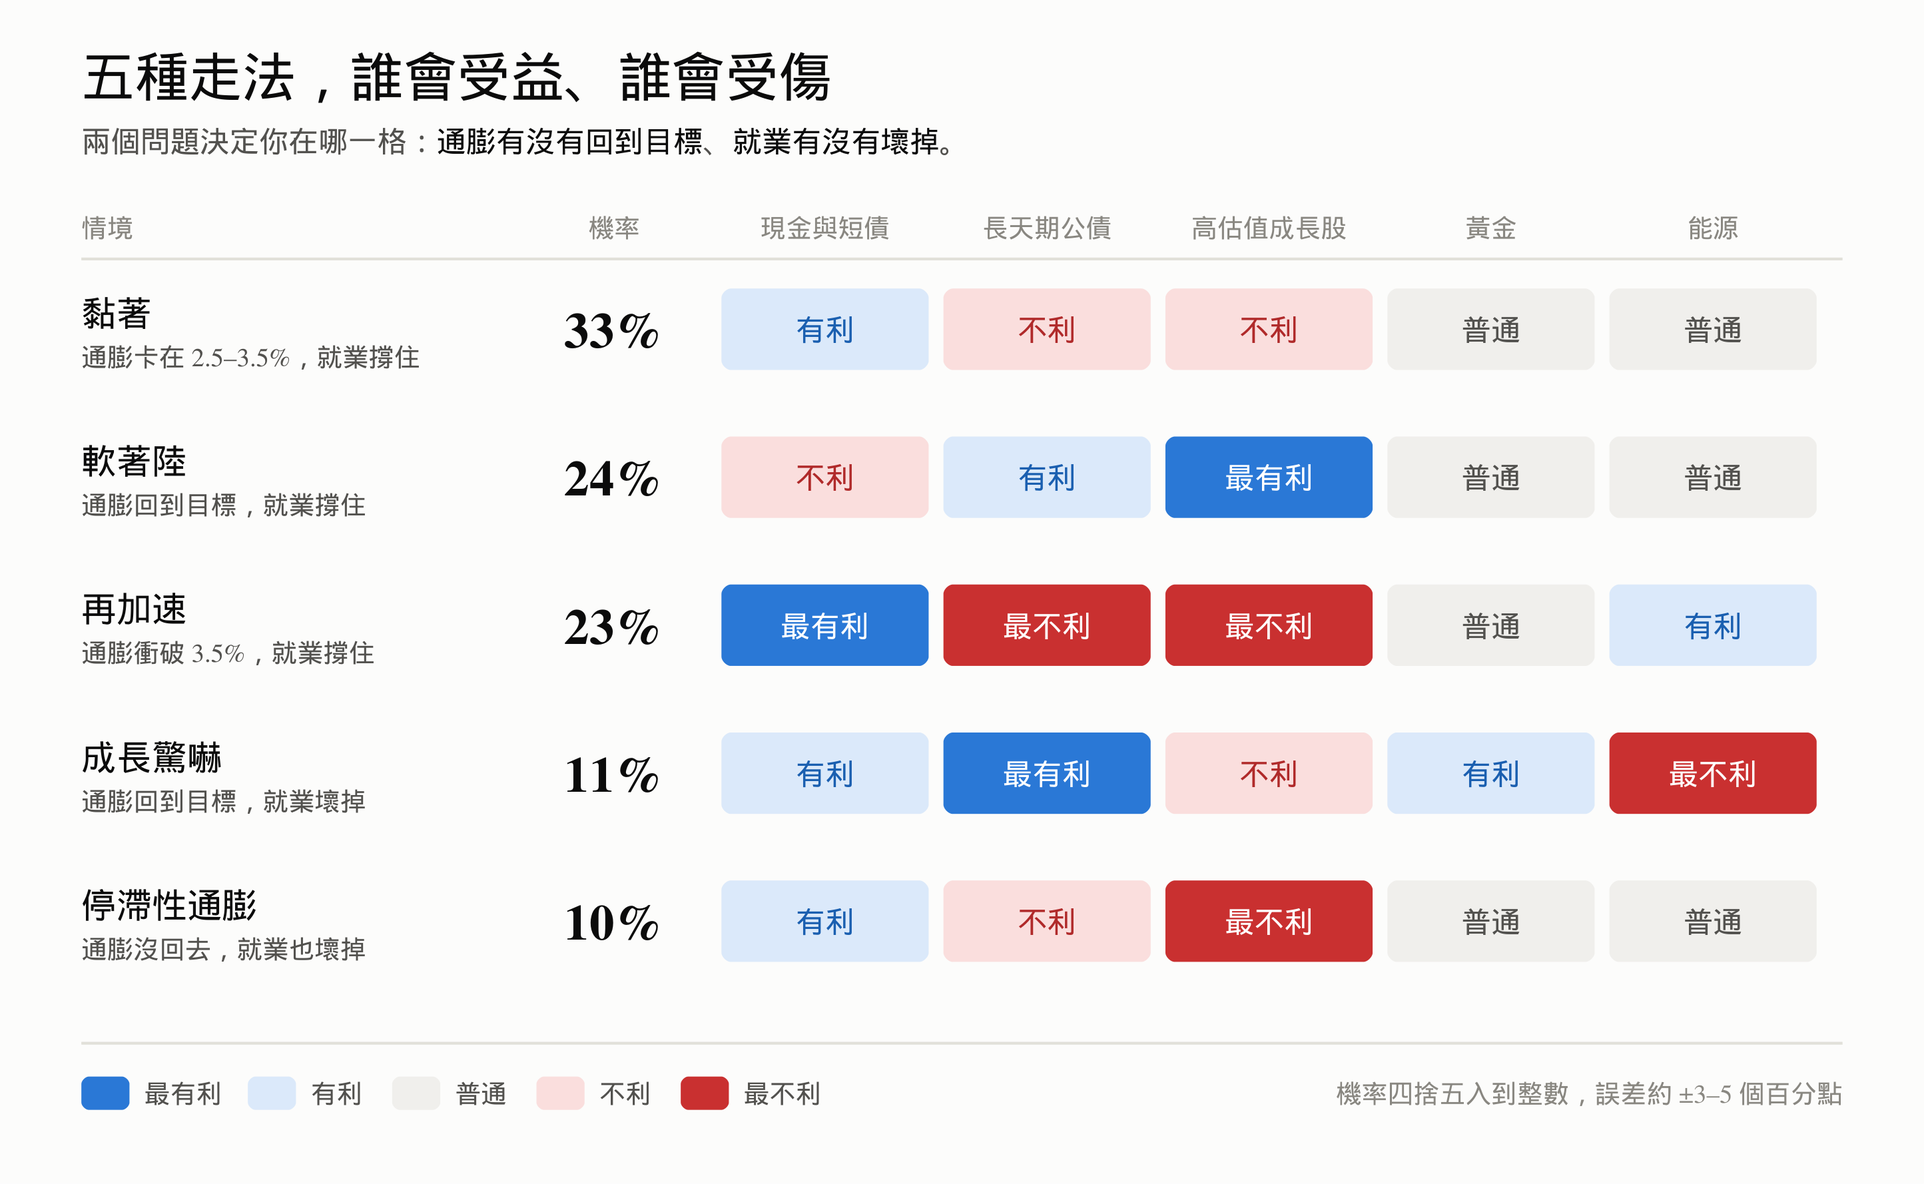
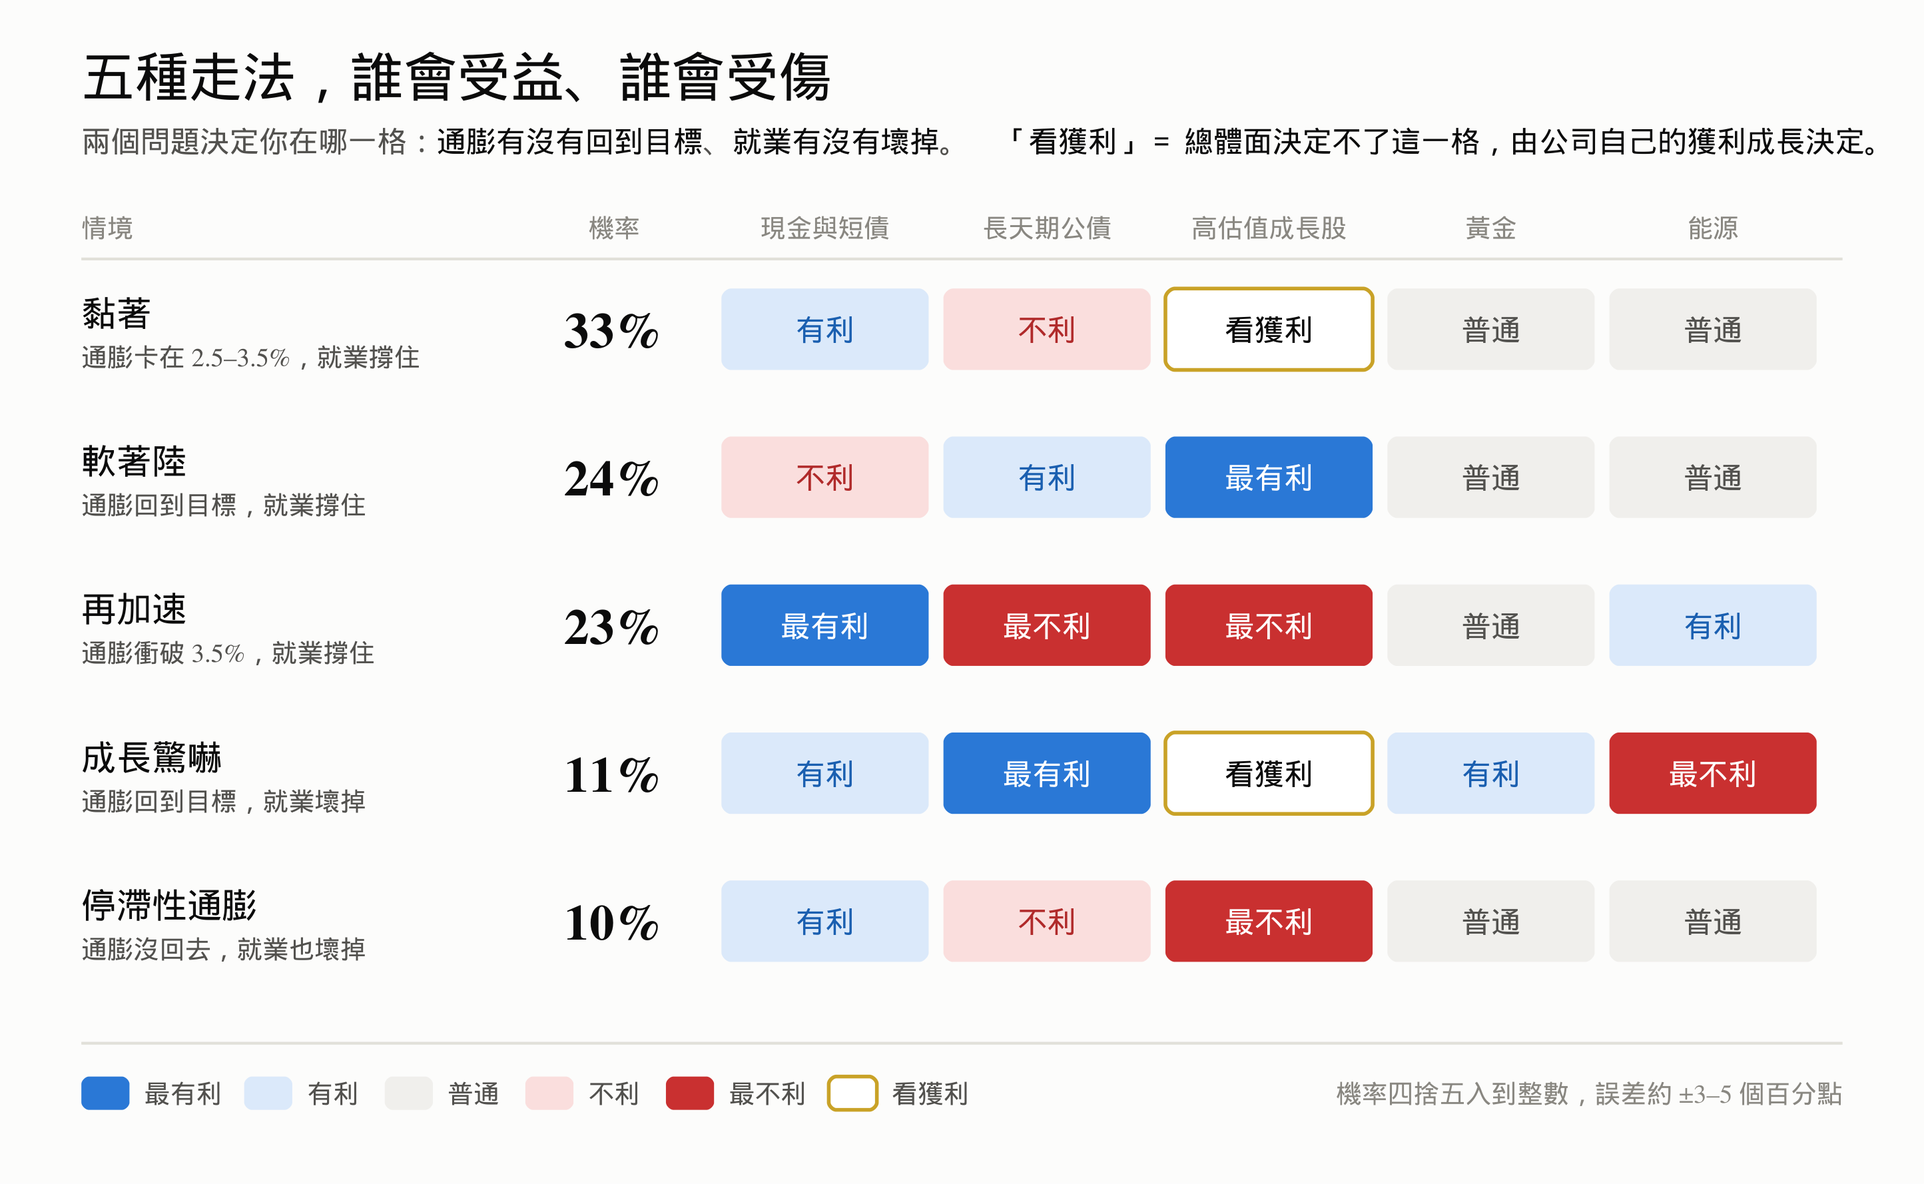
feat(viral): price the cash-flow side of the growth-stock column, not just the discount rate
Jake's objection: the matrix only evaluated the macro shock to the discount
rate. Price = (1+EPS growth) x (1+multiple change) - 1, and the column gave a
direction for the second term while silently assuming the first follows
employment. For AI-capex-driven names it does not, so "sticky" is not
automatically bad and "growth scare" is genuinely ambiguous.

Measured it on Shiller 1881-2022 (multiple_vs_earnings.py, reproducible):

- Whether the multiple compresses depends on WHY rates move, not how much.
  Rates up + inflation up: median -4.5% (n=243). Rates up + inflation DOWN:
  median +3.0% (n=84) - the multiple expands. Rates down + inflation down:
  +7.9% (n=191). The unconditional regression is worthless here (R^2 0.02-0.10,
  and the sign flips positive post-1990), which is exactly why it has to be
  split by inflation direction.
- Magnitudes are far smaller than the duration story implies. Converted to
  breakeven EPS growth (g* = 1/(1+m) - 1), even the harshest cell needs only
  +36% and that is the bad quartile; the median sticky cell needs +2%.

So the growth column gets two "depends on earnings" cells (sticky, growth
scare) instead of a fake direction - encoded as a dashed off-scale cell, since
a third hue failed CVD separation against the red (dE 3.0 deutan). Two new
sections and fig9 carry the breakeven table.

The part that cannot be answered is stated as such: the AI capex cycle is three
[…]

diff --git a/projects/macro-scenarios/multiple_vs_earnings.py b/projects/macro-scenarios/multiple_vs_earnings.py
@@ -1,0 +1,188 @@
+#!/usr/bin/env python3
+"""倍數 vs 獲利：情境矩陣算不出來的那一欄。
+
+問題（Jake 2026-09-15 提出）
+---------------------------
+情境矩陣只評估了**折現率**的衝擊，沒有評估**現金流**。但
+
+    股價變化 = (1 + EPS 成長) × (1 + 倍數變化) − 1
+
+兩項相乘。矩陣只給了第二項的方向，然後默認第一項跟著就業走。
+**對 AI 資本支出驅動的公司，第一項不由失業率決定。**
+⇒ 「高估值成長股」在「黏著」與「成長驚嚇」兩格，總體面根本決定不了方向。
+
+本檔做兩件事：
+1. 用 1881–2022 的席勒資料估「倍數在各種利率／通膨組合下實際動多少」
+2. 換算成**損益兩平的 EPS 成長**：g* = 1/(1+m) − 1
+
+關鍵發現
+--------
+**倍數壓不壓縮，取決於利率「為什麼」動，不是動了多少。**
+
+    長率↑ ＋ 通膨↑（通膨型）  倍數中位數 −4.5%   n=243
+    長率↑ ＋ 通膨↓（成長型）  倍數中位數 **+3.0%**  n=84   ← 利率漲，倍數反而擴張
+    長率↓ ＋ 通膨↓（軟著陸）  倍數中位數 +7.9%   n=191
+    長率↓ ＋ 通膨↑（停滯型）  倍數中位數 −4.7%   n=88
+
+而且**幅度比直覺小得多**：最糟那一組的中位數也只有 −4.5%，
+換算成打平門檻只要 EPS 成長 +4.7%。
+
+⇒ **一家 EPS 成長 30% 的公司，在五格裡每一格都扛得住倍數壓縮。**
+   真正的問題從來不是升息，是那 30% 還在不在。
+
+⚠ 三個限制（不要跳過）
+---------------------
+1. 席勒的 PE10 是**大盤**的平滑本益比，不是高估值成長股。高估值名字存續期間更長，
+   倍數會放大（戈登模型一階近似：P/E ≈ 1/(r−g) ⇒ 倍數對利率的彈性約等於 P/E 本身）。
+   本檔另給 1.5 倍放大的情境作參考，**那個 1.5 是假設，不是估計值**。
+2. R² 只有 0.02–0.10，且 1990 年後迴歸係數**翻正**。
+   ⇒ 「利率漲 → 倍數跌」在現代樣本裡**不是穩定關係**，這正是要按通膨方向拆開的理由。
+3. **AI 資本支出週期沒有歷史樣本。** 它約三年大，從未遇過一次衰退 ⇒
+   「成長驚嚇時 AI 資本支出會不會跟著砍」這題，歷史答不了，本檔也沒有答。
+   可觀察的替代指標見 §3。
+
+用法：python3 multiple_vs_earnings.py
+"""
+
+import csv
+import math
+import os
+
+HERE = os.path.dirname(os.path.abspath(__file__))
+SHILLER = os.path.abspath(os.path.join(
+    HERE, "..", "avi-v5", "data", "ext", "shiller_sp500.csv"))
+
+HORIZON = 12
+DURATION_AMPLIFIER = 1.5     # 高估值成長股相對大盤的倍數彈性；**這是假設**
+
+
+def load():
+    rows = {}
+    with open(SHILLER) as f:
+        for r in csv.DictReader(f):
+            try:
+                pe = float(r["PE10"])
+                ir = float(r["Long Interest Rate"])
+                cpi = float(r["Consumer Price Index"])
+            except (ValueError, KeyError):
+                continue
+            if pe <= 0 or ir <= 0 or cpi <= 0:
+                continue
+            y, m, _ = r["Date"].split("-")
+            rows[int(y) * 12 + int(m) - 1] = (pe, ir, cpi)
+    return rows
+
+
+def build(rows):
+    out = []
+    for i, (pe, ir, cpi) in sorted(rows.items()):
+        if i + HORIZON not in rows or i - HORIZON not in rows:
+            continue
+        pe2, ir2, cpi2 = rows[i + HORIZON]
+        _, _, cpi0 = rows[i - HORIZON]
+        out.append(dict(
+            d_pe=math.log(pe2 / pe) * 100,
+            d_y=(ir2 - ir) * 100,
+            d_infl=(cpi2 / cpi - 1) * 100 - (cpi / cpi0 - 1) * 100,
+        ))
+    return out
+
+
+def pct(vals, q):
+    s = sorted(vals)
+    if not s:
+        return float("nan")
+    pos = q * (len(s) - 1)
+    lo = int(pos)
+    if lo + 1 >= len(s):
+        return s[-1]
+    return s[lo] + (s[lo + 1] - s[lo]) * (pos - lo)
+
+
+def breakeven(m_pct):
+    """倍數變化 m%（負為壓縮）下，EPS 要成長多少才打平。"""
+    return (1 / (1 + m_pct / 100) - 1) * 100
+
+
+GROUPS = [
+    ("長率↑ ＋ 通膨↑（通膨型）", lambda o: o["d_y"] > 25 and o["d_infl"] > 0.5),
+    ("長率↑ ＋ 通膨↓（成長型）", lambda o: o["d_y"] > 25 and o["d_infl"] < -0.5),
+    ("長率↓ ＋ 通膨↓（軟著陸型）", lambda o: o["d_y"] < -25 and o["d_infl"] < -0.5),
+    ("長率↓ ＋ 通膨↑（停滯型）", lambda o: o["d_y"] < -25 and o["d_infl"] > 0.5),
+]
+
+# 情境 → 對應哪一個歷史分組
+SCENARIO_MAP = [
+    ("軟著陸",     2, "通膨降、利率跟著降"),
+    ("黏著",       None, "利率高檔不動，通膨也沒明顯方向"),
+    ("再加速",     0, "通膨衝高、利率被迫追"),
+    ("成長驚嚇",   2, "通膨降、利率大降（但獲利受傷）"),
+    ("停滯性通膨", 3, "通膨沒下來、利率降不動"),
+]
+
+
+def main():
+    obs = build(load())
+    print("=" * 78)
+    print("倍數 vs 獲利 —— 情境矩陣算不出來的那一欄")
+    print("=" * 78)
+    print(f"\n樣本：席勒 S&P 500 月資料，12 個月重疊窗，n={len(obs)}")
+
+    print("\n【1】倍數壓不壓縮，取決於利率『為什麼』動")
+    print(f"  {'分組':<26}{'n':>5}{'倍數中位數':>12}{'較差四分位':>12}")
+    stats = []
+    for name, f in GROUPS:
+        sub = [o["d_pe"] for o in obs if f(o)]
+        med, q25 = pct(sub, 0.5), pct(sub, 0.25)
+        stats.append((med, q25))
+        print(f"  {name:<26}{len(sub):>5}{med:>11.1f}%{q25:>11.1f}%")
+    # 「黏著」用全部升息窗當代理
+    all_up = [o["d_pe"] for o in obs if o["d_y"] > 25]
+    sticky = (pct(all_up, 0.5), pct(all_up, 0.25))
+    print(f"  {'長率↑ 全部（黏著的代理）':<26}{len(all_up):>5}"
+          f"{sticky[0]:>11.1f}%{sticky[1]:>11.1f}%")
+
+    print("\n  ⇒ 通膨在升的時候倍數才會壓縮；通膨在降的時候，**利率漲倍數反而擴張**。")
+
+    print("\n【2】換算成「EPS 要成長多少才打平」　g* = 1/(1+m) − 1")
+    print(f"\n  {'情境':<12}{'倍數(中位數)':>12}{'EPS打平':>10}"
+          f"{'倍數(較差1/4)':>14}{'EPS打平':>10}")
+    for name, gi, _why in SCENARIO_MAP:
+        med, q25 = sticky if gi is None else stats[gi]
+        print(f"  {name:<12}{med:>11.1f}%{breakeven(med):>9.0f}%"
+              f"{q25:>13.1f}%{breakeven(q25):>9.0f}%")
+
+    print(f"\n  高估值成長股（倍數彈性假設為大盤的 {DURATION_AMPLIFIER} 倍）：")
+    print(f"  {'情境':<12}{'倍數(中位數)':>12}{'EPS打平':>10}"
+          f"{'倍數(較差1/4)':>14}{'EPS打平':>10}")
+    worst = 0.0
+    for name, gi, _why in SCENARIO_MAP:
+        med, q25 = sticky if gi is None else stats[gi]
+        med *= DURATION_AMPLIFIER
+        q25 *= DURATION_AMPLIFIER
+        worst = max(worst, breakeven(q25))
+        print(f"  {name:<12}{med:>11.1f}%{breakeven(med):>9.0f}%"
+              f"{q25:>13.1f}%{breakeven(q25):>9.0f}%")
+
+    print(f"\n  ⇒ **最嚴苛的一格，打平門檻也只有 EPS +{worst:.0f}%。**")
+    print("     一家 EPS 成長 30% 的公司，在五格裡每一格都扛得住倍數壓縮。")
+    print("     **真正的問題不是升息，是那 30% 還在不在。**")
+
+    print("\n【3】那 30% 還在不在？——這題歷史答不了")
+    print("  AI 資本支出週期約三年大，**從未遇過一次衰退**，所以沒有可比樣本。")
+    print("  可觀察的替代指標（決定它是循環性還是結構性）：")
+    print("    a. 那些資本支出是**自己賺的錢**還是**借來的**")
+    print("       ——用營運現金流蓋的，需求一掉就跟著砍；舉債蓋的，信用一緊就跟著砍。")
+    print("    b. 大型雲端商對**下一年**資本支出的指引有沒有下修")
+    print("    c. 折舊年限有沒有被拉長（拉長＝用會計撐獲利，是壓力的訊號）")
+    print("  ⇒ 這三項都在十月底的財報裡。**那一天比任何一場央行會議更能決定這一欄。**")
+
+    print("\n" + "=" * 78)
+    print("⚠ PE10 是大盤平滑本益比，不是高估值成長股；1.5 倍放大是假設不是估計。")
+    print("   迴歸 R² 只有 0.02–0.10，1990 年後係數甚至翻正 ⇒")
+    print("   「利率漲＝倍數跌」在現代樣本不是穩定關係，這正是要按通膨方向拆開的理由。")
+    print("=" * 78)
+
+
+if __name__ == "__main__":
+    main()

diff --git a/skills/viralcontent/drafts/figures/make_fig5.py b/skills/viralcontent/drafts/figures/make_fig5.py
@@ -19,11 +19,12 @@ import scenario_model as M  # noqa: E402
 ASSETS = ["現金與短債", "長天期公債", "高估值成長股", "黃金", "能源"]
 
 # 每個情境的資產方向。-2 最不利 / -1 不利 / 0 普通 / 1 有利 / 2 最有利
+# 9 = 「看獲利」：總體面決定不了這一格，由公司自己的獲利成長決定（見 fig9）
 VIEW = {
     "軟著陸":     [-1,  1,  2,  0,  0],
-    "黏著":       [ 1, -1, -1,  0,  0],
+    "黏著":       [ 1, -1,  9,  0,  0],
     "再加速":     [ 2, -2, -2,  0,  1],
-    "成長驚嚇":   [ 1,  2, -1,  1, -2],
+    "成長驚嚇":   [ 1,  2,  9,  1, -2],
     "停滯性通膨": [ 1, -1, -2,  0,  0],
 }
 
@@ -36,10 +37,13 @@ REASONS = {
                   "黃金只給普通：1890 年以來 7 次停滯性通膨，黃金只有 1973–75 真正發揮",
 }
 
-FILL = {2: "#2a78d6", 1: "#dbe9fa", 0: "#f0efec", -1: "#fadedd", -2: "#c93030"}
-INK = {2: "#ffffff", 1: "#1a5fb0", 0: "#52514e", -1: "#b02a2a", -2: "#ffffff"}
-LABEL = {2: "最有利", 1: "有利", 0: "普通", -1: "不利", -2: "最不利"}
-BOLD = {2: "700", 1: "700", 0: "400", -1: "700", -2: "700"}
+FILL = {2: "#2a78d6", 1: "#dbe9fa", 0: "#f0efec", -1: "#fadedd", -2: "#c93030", 9: "#ffffff"}
+INK = {2: "#ffffff", 1: "#1a5fb0", 0: "#52514e", -1: "#b02a2a", -2: "#ffffff", 9: "#0b0b0b"}
+# 「看獲利」不在藍↔紅這條軸上，所以不給它第三種色相（會撞色盲判讀），
+# 改用虛線外框當第二編碼通道 —— 語意上也對：它就是「不在這個量尺上」。
+STROKE = {9: "#c9a227"}
+LABEL = {2: "最有利", 1: "有利", 0: "普通", -1: "不利", -2: "最不利", 9: "看獲利"}
+BOLD = {2: "700", 1: "700", 0: "400", -1: "700", -2: "700", 9: "700"}
 
 DESC = {
     "軟著陸": "通膨回到目標，就業撐住",
@@ -70,7 +74,8 @@ def build():
         '五種走法，誰會受益、誰會受傷</text>',
         '<text x="44" y="82" font-size="16" fill="#52514e">兩個問題決定你在哪一格：'
         '<tspan font-weight="700" fill="#0b0b0b">通膨有沒有回到目標</tspan>、'
-        '<tspan font-weight="700" fill="#0b0b0b">就業有沒有壞掉</tspan>。</text>',
+        '<tspan font-weight="700" fill="#0b0b0b">就業有沒有壞掉</tspan>。'
+        '　<tspan font-weight="700" fill="#0b0b0b">「看獲利」＝ 總體面決定不了這一格，由公司自己的獲利成長決定。</tspan></text>',
         '<text x="44" y="128" font-size="14" font-weight="700" fill="#898781">情境</text>',
         '<text x="332" y="128" font-size="14" font-weight="700" fill="#898781" '
         'text-anchor="middle">機率</text>',
@@ -88,8 +93,10 @@ def build():
         out.append(f'<text x="332" y="{y + 32}" font-size="27" font-weight="700" '
                    f'fill="#0b0b0b" text-anchor="middle">{round(p * 100)}%</text>')
         for x, v in zip(COL_X, VIEW[name]):
+            extra = (f' stroke="{STROKE[v]}" stroke-width="2" stroke-dasharray="5 3"'
+                     if v in STROKE else '')
             out.append(f'<rect x="{x}" y="{y}" width="{CELL_W}" height="{CELL_H}" rx="5" '
-                       f'fill="{FILL[v]}"/>')
+                       f'fill="{FILL[v]}"{extra}/>')
             out.append(f'<text x="{x + CELL_W // 2}" y="{y + 28}" font-size="16" '
                        f'font-weight="{BOLD[v]}" fill="{INK[v]}" text-anchor="middle">'
                        f'{LABEL[v]}</text>')
@@ -97,11 +104,14 @@ def build():
     ly = TOP + ROW_H * 5 + 8
     out.append(f'<line x1="44" y1="{ly}" x2="996" y2="{ly}" stroke="#e1e0d9" stroke-width="1.5"/>')
     lx = 44
-    for v in (2, 1, 0, -1, -2):
-        out.append(f'<rect x="{lx}" y="{ly + 18}" width="26" height="18" rx="4" fill="{FILL[v]}"/>')
+    for v in (2, 1, 0, -1, -2, 9):
+        ex = (f' stroke="{STROKE[v]}" stroke-width="2" stroke-dasharray="4 2.5"'
+              if v in STROKE else '')
+        out.append(f'<rect x="{lx}" y="{ly + 18}" width="26" height="18" rx="4" '
+                   f'fill="{FILL[v]}"{ex}/>')
         out.append(f'<text x="{lx + 34}" y="{ly + 32}" font-size="14" fill="#52514e">'
                    f'{LABEL[v]}</text>')
-        lx += 90 if len(LABEL[v]) == 3 else 78
+        lx += 88 if len(LABEL[v]) == 3 else 76
     out.append(f'<text x="996" y="{ly + 32}" font-size="14" fill="#898781" text-anchor="end">'
                f'機率四捨五入到整數，誤差約 ±3–5 個百分點</text>')
     out.append('</svg>')

diff --git a/skills/viralcontent/drafts/2026-09-15-fomc-boj-final.md b/skills/viralcontent/drafts/2026-09-15-fomc-boj-final.md
@@ -10,10 +10,11 @@ last_updated: 2026-09-15
 
 > **這是定稿，直接用這一份。**
 > **合規自檢**：無個股、無代碼、無買賣建議、無明牌 ✅｜**雙軌自檢**：匿名用，不連實名帳號 ✅｜**無自我敘事** ✅
-> **配圖 7 張**（`figures/`，插入點已標在文中）：圖 6 → 圖 4 → 圖 2 → 圖 7 → 圖 5 → 圖 8 → 圖 3。
+> **配圖 8 張**（`figures/`，插入點已標在文中）：圖 6 → 圖 4 → 圖 2 → 圖 7 → 圖 5 → 圖 8 → **圖 9** → 圖 3。
 > 圖 5 由 `figures/make_fig5.py` **直接從模型產生**，所以圖上的機率不可能和模型脫節。
+> 圖 9 的數字由 `projects/macro-scenarios/multiple_vs_earnings.py` 產生（席勒 1881–2022）。
 >
-> **主文約 3,600 字；短影音版約 360 字。**
+> **主文約 4,180 字；短影音版約 360 字。**
 > 修訂軌跡（不發布，只給自己看）：住房機制的推翻見**附錄 E**，情境模型的統計重建見**附錄 F**。
 
 ---
@@ -247,11 +248,59 @@ last_updated: 2026-09-15
 
 不是看機率，是**直著看每一欄**：
 
-- **高估值成長股**在合計約**八成**的機率上受傷，只有一格對它真的好。
 - **現金與短債**只有在「軟著陸」那一格吃虧——而那剛好是最好的那一格。**保險本來就是這樣：你付的保費，就是在最好的那個世界裡少賺的那一塊。**
+- **長天期公債**在通膨回不去的那幾格都不利，但在「成長驚嚇」是全場最贏。**它賭的是同一件事的兩面。**
 - **沒有任何一欄在五種情況都好。**
 
-**一個反直覺的**：黃金在停滯性通膨那一格我只給「普通」。1890 年以來符合停滯性通膨的七次裡，黃金真正發揮作用的只有 1973–75 那一次。**黃金是危機避險，不是通膨避險——這兩件事很常被混為一談。**
+**一個反直覺的**：黃金在停滯性通膨那一格只給「普通」。1890 年以來符合停滯性通膨的七次裡，黃金真正發揮作用的只有 1973–75 那一次。**黃金是危機避險，不是通膨避險——這兩件事很常被混為一談。**
+
+而**高估值成長股有兩格寫「看獲利」**。那不是偷懶，是總體面在那兩格真的決定不了方向。
+
+---
+
+### 為什麼成長股那兩格不敢寫方向
+
+還記得前面那條式子嗎？股價是兩塊相乘的：
+
+**股價變化 ＝ (1 ＋ EPS 成長) × (1 ＋ 倍數變化) − 1**
+
+**［插入圖 9：成長股：倍數和獲利在拉鋸］**
+
+升息壓的是**右邊**那一半。但左邊那一半——公司自己賺多少——在 AI 這一輪，**根本不是失業率在決定的**。
+
+那倍數會被壓多少？翻一百四十年的資料，答案比直覺小很多，而且**方向取決於利率為什麼漲**：
+
+- **通膨在升、利率跟著漲** → 倍數中位數掉 **4.5%**
+- **通膨在降、利率卻漲**（因為經濟好） → 倍數**反而漲 3%**
+
+所以「升息 → 成長股完蛋」這句話，**只有在通膨同時在升的時候才成立。**
+
+再把它換算成「那你的公司要成長多少才打平」——這是純算術：
+
+- **「黏著」那一格：EPS 成長超過 2% 就打平。**
+- 最嚴苛的「再加速」：超過 **7%**；就算運氣差、落在最糟的四分之一，也是 **36%**。
+
+**最嚴苛的一格門檻也只有 36%。一家獲利真的在高速成長的公司，五格裡每一格都扛得住倍數壓縮。**
+
+**所以真正的問題從來不是升息，是那個成長還在不在。**
+
+---
+
+### 而那一題，歷史答不了
+
+「成長驚嚇的時候，AI 的資本支出會不會跟著砍？」
+
+**沒有答案，因為沒有樣本。** AI 資本支出週期才三年大，**從來沒遇過一次衰退**。誰跟你說「歷史顯示」什麼，他是在編。
+
+能看的只有三件事，而且都在**十月底的財報**裡：
+
+1. **那些錢是自己賺的還是借的。** 用營運現金流蓋的，需求一掉就跟著砍；舉債蓋的，信用一緊就跟著砍。
+2. **下一年的資本支出指引有沒有下修。**
+3. **折舊年限有沒有被偷偷拉長。** 拉長等於用會計撐獲利——那是壓力的訊號，不是實力的訊號。
+
+**對你手上的成長股來說，那一天比任何一場央行會議都重要。**
+
+---
 
 所以問題從來不是「該買哪個」，而是：**你能承受哪一種錯？**
 
@@ -273,7 +322,7 @@ last_updated: 2026-09-15
 
 **不是任何一場央行會議。** 央行只是在讀這兩個數字，跟你一樣。
 
-再往後，十月底那批大型雲端商的財報比較關鍵——看的是 2027 年的資本支出、自由現金流，以及那些錢是自己賺的還是借的。
+再往後就是十月底那批大型雲端商的財報——理由前面講過了。
 
 ---
 
